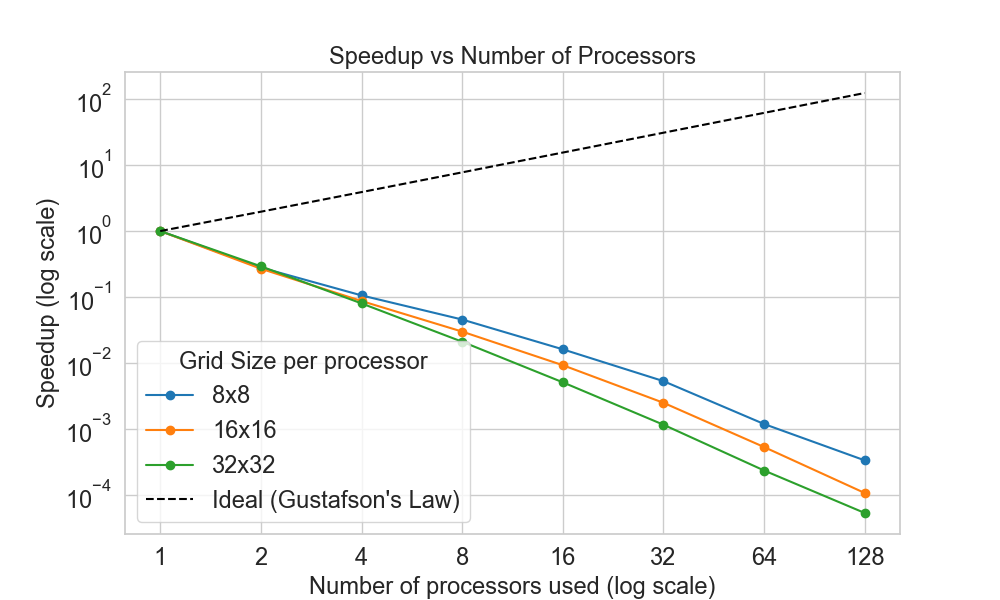
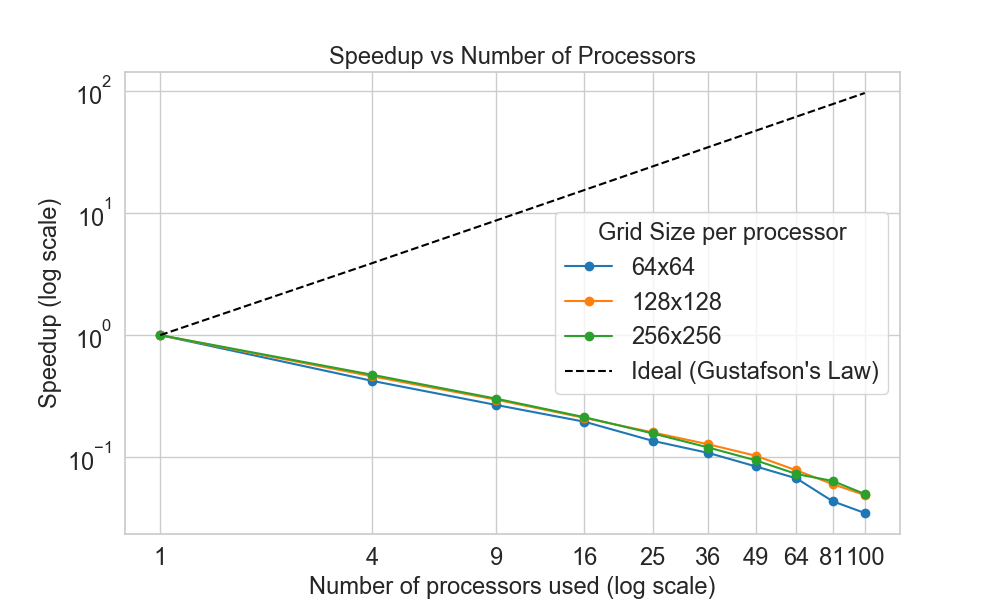
Updated image for weak scaling

diff --git a/Final project/MPI/Weak_scaling/weak_scaling_results.py b/Final project/MPI/Weak_scaling/weak_scaling_results.py
@@ -1,0 +1,137 @@
+import os
+import re
+import matplotlib.pyplot as plt
+from math import sqrt
+import seaborn as sns
+#Setting theme
+sns.set_theme(style="whitegrid")
+
+# Directory containing your log files
+path = os.path.dirname(os.path.abspath(__file__))
+
+# Alpha for Gustafson's Law
+# Note: In theory one should estimate ALPHA for every problem size, 
+# as a simplying assuption we use a constant value for all grid sizes.
+# ALPHA was estimated with 8 processors with a grid size of 32x32 per processor.
+ALPHA = 0.9651
+
+# Lists to store extracted data as dicts
+results = []
+
+# Regex patterns
+time_pattern = re.compile(r"Elapsed time:\s*([\d.]+)\s*seconds")
+processor_pattern = re.compile(r"Number of processors used:\s*(\d+)")
+grid_pattern = re.compile(r"Running test case \d+ with grid (\d+)x\d+")
+
+# Iterate over each file in the directory
+for filename in os.listdir(path):
+    print(f"Processing file: {filename}")
+    if filename.endswith(".txt"):
+        with open(os.path.join(path, filename), 'r') as file:
+            content = file.read()
+            
+            time_match = time_pattern.search(content)
+            processor_match = processor_pattern.search(content)
+            grid_match = grid_pattern.search(content)
+            
+            if time_match and processor_match and grid_match:
+
+                
+                results.append({
+                    "elapsed_time": float(time_match.group(1)),
+                    "n_processors": int(processor_match.group(1)),
+                    "grid_size": int(grid_match.group(1))//int(sqrt(int(processor_match.group(1))))
+                })
+
+# Make sure that for each processor there is three grid sizes
+for vals in results:
+    assert vals["grid_size"] in [64, 128, 256], "Grid size must be one of [64, 128, 256]"
+
+
+
+
+# Get unique grid sizes
+unique_grid_sizes = sorted(set([r["grid_size"] for r in results]))
+unique_n_processors = sorted(set([r["n_processors"] for r in results]))
+
+
+# Dicts to keep track of efficiency values: grid_size: [values]
+speedups = {}
+efficiencies = {}
+
+for idx, grid in enumerate(unique_grid_sizes):
+    # Filter results for this grid size
+    filtered = [r for r in results if r["grid_size"] == grid]
+    filtered.sort(key=lambda x: x["n_processors"])
+    n_procs = [r["n_processors"] for r in filtered]
+    times = [r["elapsed_time"] for r in filtered]
+
+    # Calculate speedup and efficiency
+    speedup = [times[0] / t for t in times]
+    efficiency = [s / p for s, p in zip(speedup, n_procs)]
+
+    # Add to dictionaries
+    speedups[grid] = speedup
+    efficiencies[grid] = efficiency
+
+
+# Prepare for plotting
+colors = sns.color_palette("tab10", n_colors=len(unique_grid_sizes))
+GLOBAL_FONT_SIZE = 17
+plt.rcParams.update({
+    'font.size': GLOBAL_FONT_SIZE,
+    'axes.titlesize': GLOBAL_FONT_SIZE,
+    'axes.labelsize': GLOBAL_FONT_SIZE,
+    'xtick.labelsize': GLOBAL_FONT_SIZE,
+    'ytick.labelsize': GLOBAL_FONT_SIZE,
+    'legend.fontsize': GLOBAL_FONT_SIZE,
+    'legend.title_fontsize': GLOBAL_FONT_SIZE
+})
+
+# Plotting speedups
+plt.figure(figsize=(10, 6))
+for idx, grid in enumerate(unique_grid_sizes):
+    times = speedups[grid]
+    plt.plot(sorted(unique_n_processors), times, marker='o', linestyle='-', color=colors[idx], label=f'{grid}x{grid}')
+
+# Ideal speedup line based on Gustafson's Law
+ideal_speedup = [1 + (p - 1) * ALPHA for p in sorted(unique_n_processors)]
+plt.plot(sorted(unique_n_processors), ideal_speedup, linestyle='--', color='black', label='Ideal (Gustafson\'s Law)')
+plt.title('Speedup vs Number of Processors')
+plt.xlabel('Number of processors used (log scale)')
+plt.ylabel('Speedup (log scale)')
+plt.grid(True)
+plt.yscale('log')
+plt.xscale('log')
+plt.xticks(sorted(unique_n_processors), labels=[str(p) for p in sorted(unique_n_processors)])  # Set ticks to all processor counts
+plt.legend(title="Grid Size per processor")
+
+# Save the plot
+saving_path = os.path.join(os.path.dirname(os.path.dirname(path)), "scaling_images")
+plt.savefig(os.path.join(saving_path, 'speedup_weak_scaling.png'))
+plt.show()
+
+
+
+# Plotting efficencies
+plt.figure(figsize=(10, 6))
+for idx, grid in enumerate(unique_grid_sizes):
+    times = efficiencies[grid]
+    plt.plot(sorted(unique_n_processors), times, marker='o', linestyle='-', color=colors[idx], label=f'{grid}x{grid}')
+
+# Ideal efficiency line based on Gustafson's Law
+ideal_eff = [ideal_speedup[i]/p for i, p in enumerate(sorted(unique_n_processors))]
+plt.plot(sorted(unique_n_processors), ideal_eff, linestyle='--', color='black', label='Ideal (Gustafson\'s Law)')
+plt.title('Efficiency vs Number of Processors')
+plt.xlabel('Number of processors used (log scale)')
+plt.ylabel('Efficiency (log scale)')
+plt.grid(True)
+plt.yscale('log')
+plt.xscale('log')
+plt.xticks(sorted(unique_n_processors), labels=[str(p) for p in sorted(unique_n_processors)])  # Set ticks to all processor counts
+plt.legend(title="Grid Size per processor")
+
+# Save the plot
+saving_path = os.path.join(os.path.dirname(os.path.dirname(path)), "scaling_images")
+plt.savefig(os.path.join(saving_path, 'efficiency_weak_scaling.png'))
+plt.show()